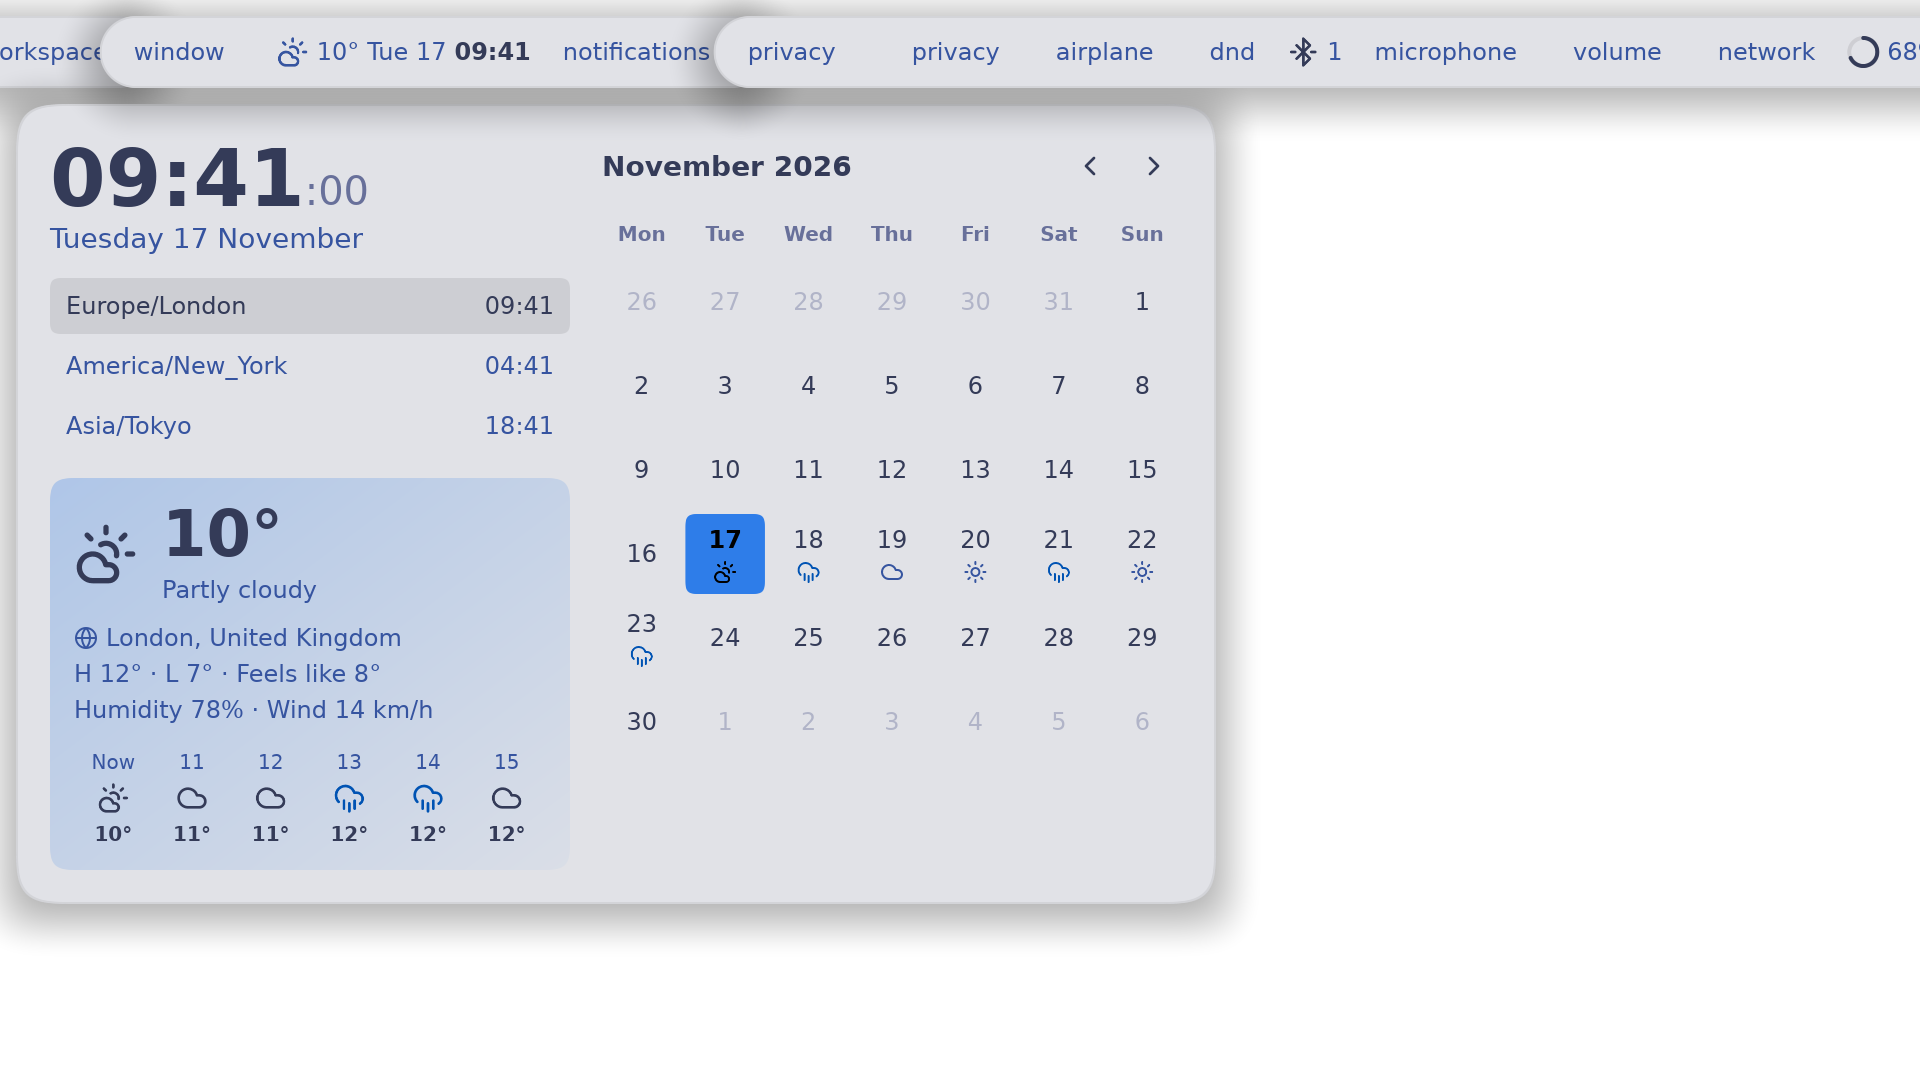
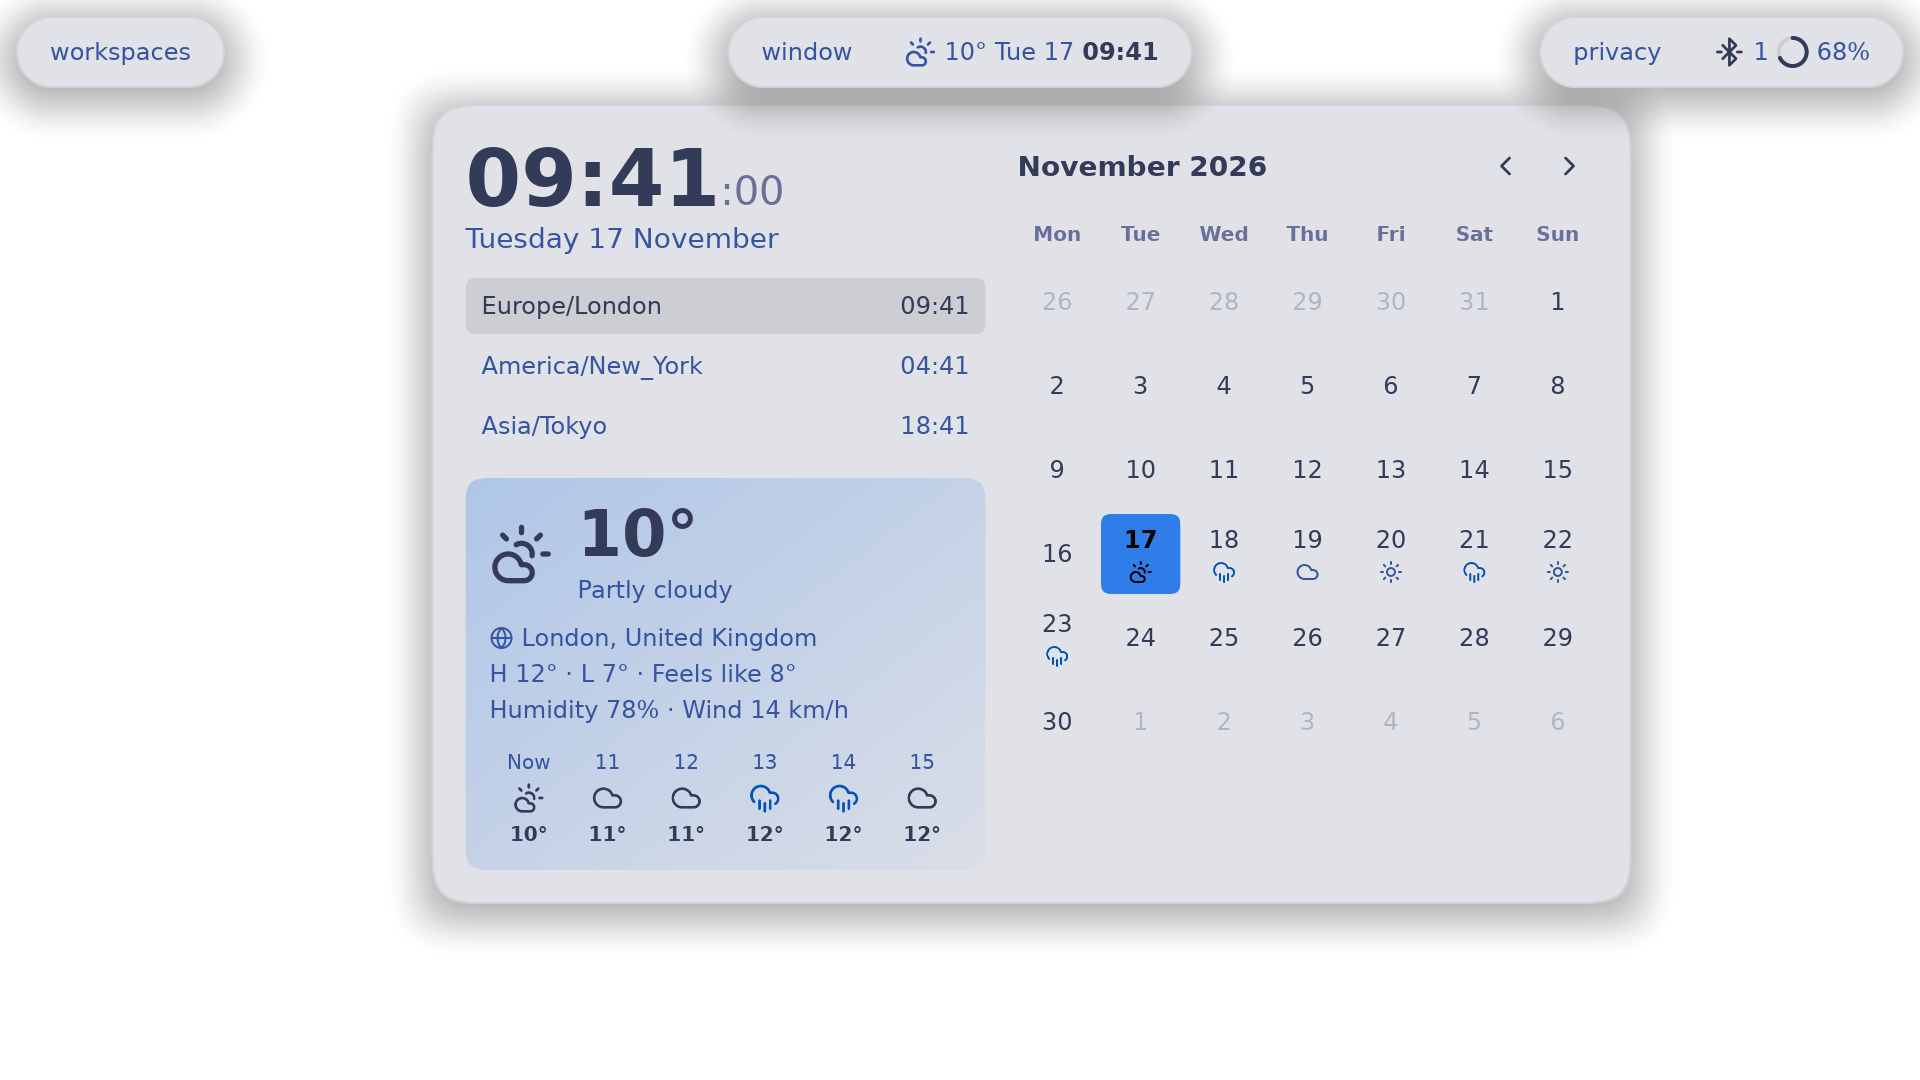
fix(experimental): a zone with items drawn leaves out those no module draws yet
A placeholder for each item no module draws made a zone half built a row of
names: with the settings items drawn, the status zone read privacy, airplane,
dnd, microphone, volume and network around them. A zone with items drawn now
shows only those, in its row and in its details; one with none is still its
placeholder, and its details a placeholder for each item.

diff --git a/experimental/ashell-experimental/src/bar/items.rs b/experimental/ashell-experimental/src/bar/items.rs
@@ -35,29 +35,32 @@ pub(super) fn zone(
     drawn.then(|| container().child(pill().on_click(click).children(items)))
 }
 
-/// A zone's details: its items, those no module draws yet as placeholders.
+/// A zone's details: its items, as [`row`] has them.
 pub(super) fn details(items: &[Item], open: Open, modules: Modules, opens: Opens) -> Container {
     container()
         .layout(centered_row(size::S1.px()))
         .children(row(items, open, modules, opens).0)
 }
 
-/// The items, a placeholder for each one no module draws, and whether any
-/// module drew one.
+/// The items the modules draw, and whether there is any. While there is
+/// none, a placeholder for each item; once there is one, those no module
+/// draws yet are left out, so a zone being built shows only what is done.
 fn row(items: &[Item], open: Open, modules: Modules, opens: Opens) -> (Vec<Container>, bool) {
-    let mut any_drawn = false;
-    let views = items
+    let views: Vec<_> = items
         .iter()
-        .map(|item| match modules.item(item) {
-            Some(view) => {
-                any_drawn = true;
-                drawn(item, view, open, opens.clone())
-            }
-            None => placeholder(item, open, opens.clone()),
+        .map(|item| (item, modules.item(item)))
+        .collect();
+    let any_drawn = views.iter().any(|(_, view)| view.is_some());
+
+    let row = views
+        .into_iter()
+        .filter_map(|(item, view)| match view {
+            Some(view) => Some(drawn(item, view, open, opens.clone())),
+            None => (!any_drawn).then(|| placeholder(item, open, opens.clone())),
         })
         .collect();
 
-    (views, any_drawn)
+    (row, any_drawn)
 }
 
 /// An item no module draws yet: its name where a pill's text would be, but

diff --git a/experimental/website/content/docs/rolling/configuration/layout.md b/experimental/website/content/docs/rolling/configuration/layout.md
@@ -66,9 +66,11 @@ the gap between the ends. A group that grows in the centre stays centred.
 ## What shows
 
 {% <note kind="info" title="Not all drawn yet"> %}
-Only the items of [`tempo`](@/docs/rolling/configuration/tempo.md) have
-their data and hide as their `show` says; the others are placeholders and
-always show. A zone or a group with nothing visible still takes its room
+Only the items of [`tempo`](@/docs/rolling/configuration/tempo.md) and
+[`settings`](@/docs/rolling/configuration/settings.md) have their data and
+hide as their `show` says; the others are left out of a zone that has items
+drawn, and are placeholders that always show in one that has none. A zone or
+a group with nothing visible still takes its room
 for now: what follows is how the bar will behave once that is in place.
 {% </note> %}
 

diff --git a/experimental/website/content/docs/rolling/configuration/zones.md b/experimental/website/content/docs/rolling/configuration/zones.md
@@ -10,9 +10,10 @@ is one piece of information: the battery, the time, the window's title.
 {% <note kind="info" title="Placeholders"> %}
 The items of [`tempo`](@/docs/rolling/configuration/tempo.md) and
 [`settings`](@/docs/rolling/configuration/settings.md) are drawn, with their
-`show`, `open` and gestures. The others show placeholders for
-now, sized like the real ones; a zone none of whose items is drawn yet is
-one placeholder with its name.
+`show`, `open` and gestures. The others are left out of a zone that has
+items drawn; a zone none of whose items is drawn yet is one placeholder with
+its name, and its details show a placeholder for each item, sized like the
+real ones.
 {% </note> %}
 
 ## Built-in zones
